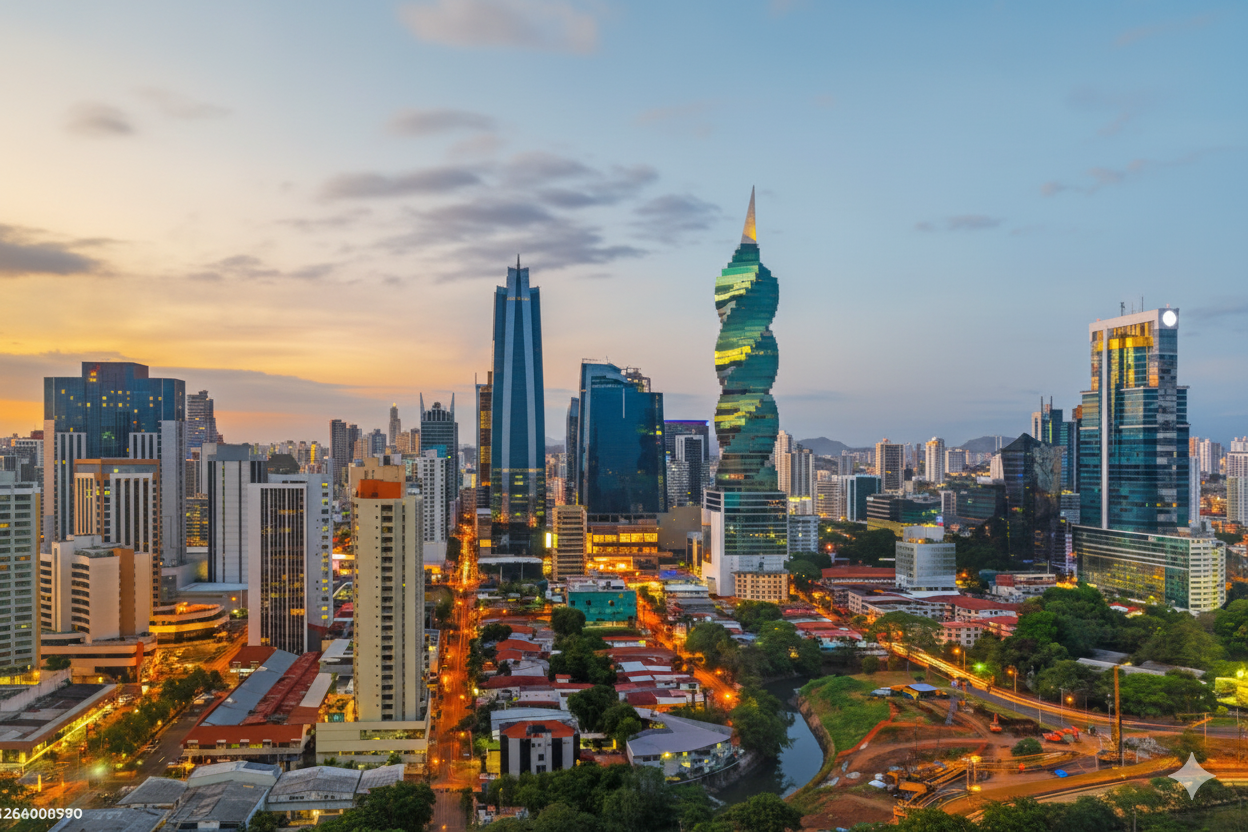
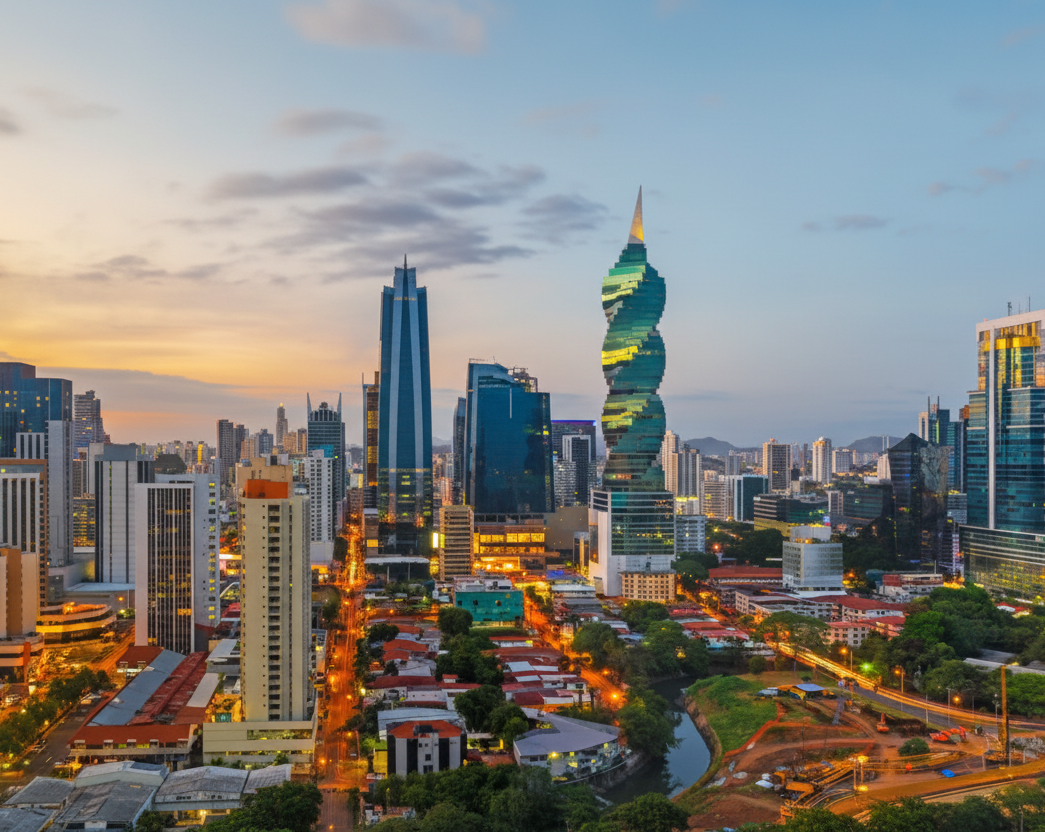
Actualización de imágenes: mejora Hero.png, actualizar servicios (Ciudad, Playa, Casco-Antiguo, Kia-Casco), cambiar extensión Casco-Antiguo a .png, ajustar CSS

diff --git a/css/styles.css b/css/styles.css
@@ -241,7 +241,7 @@ img {
   width: 100%;
   height: 100%;
   object-fit: cover;
-  object-position: center;
+  object-position: center 40%;
   filter: brightness(1.08) contrast(1.12) saturate(1.25) hue-rotate(-5deg);
   transition: filter 0.3s ease;
 }
